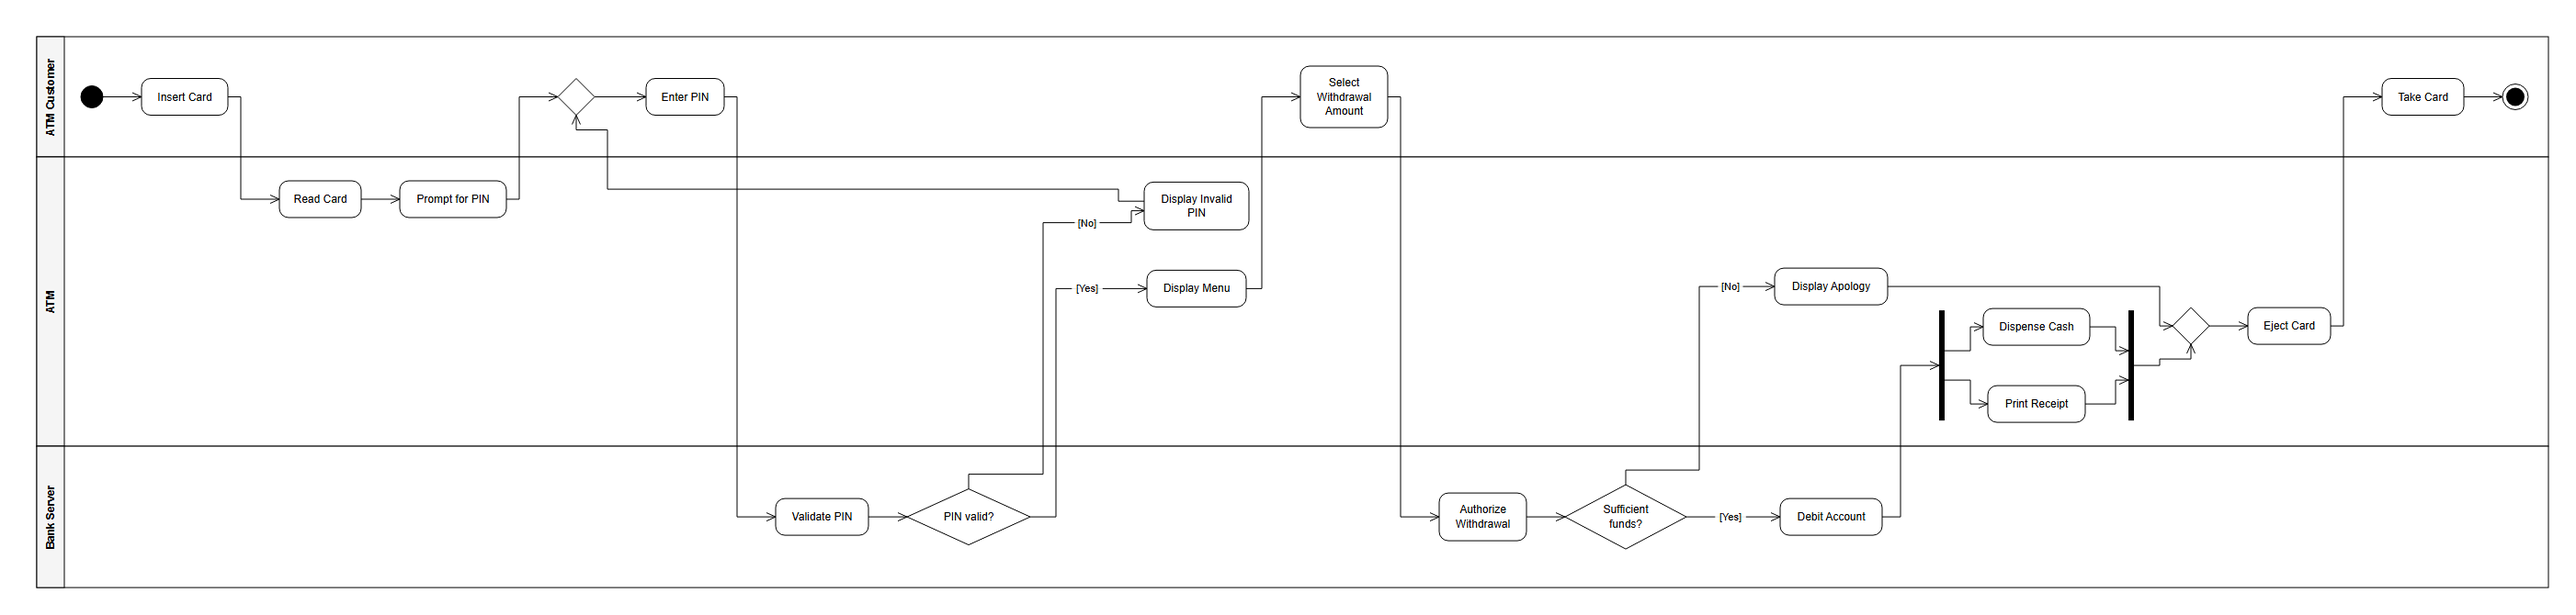
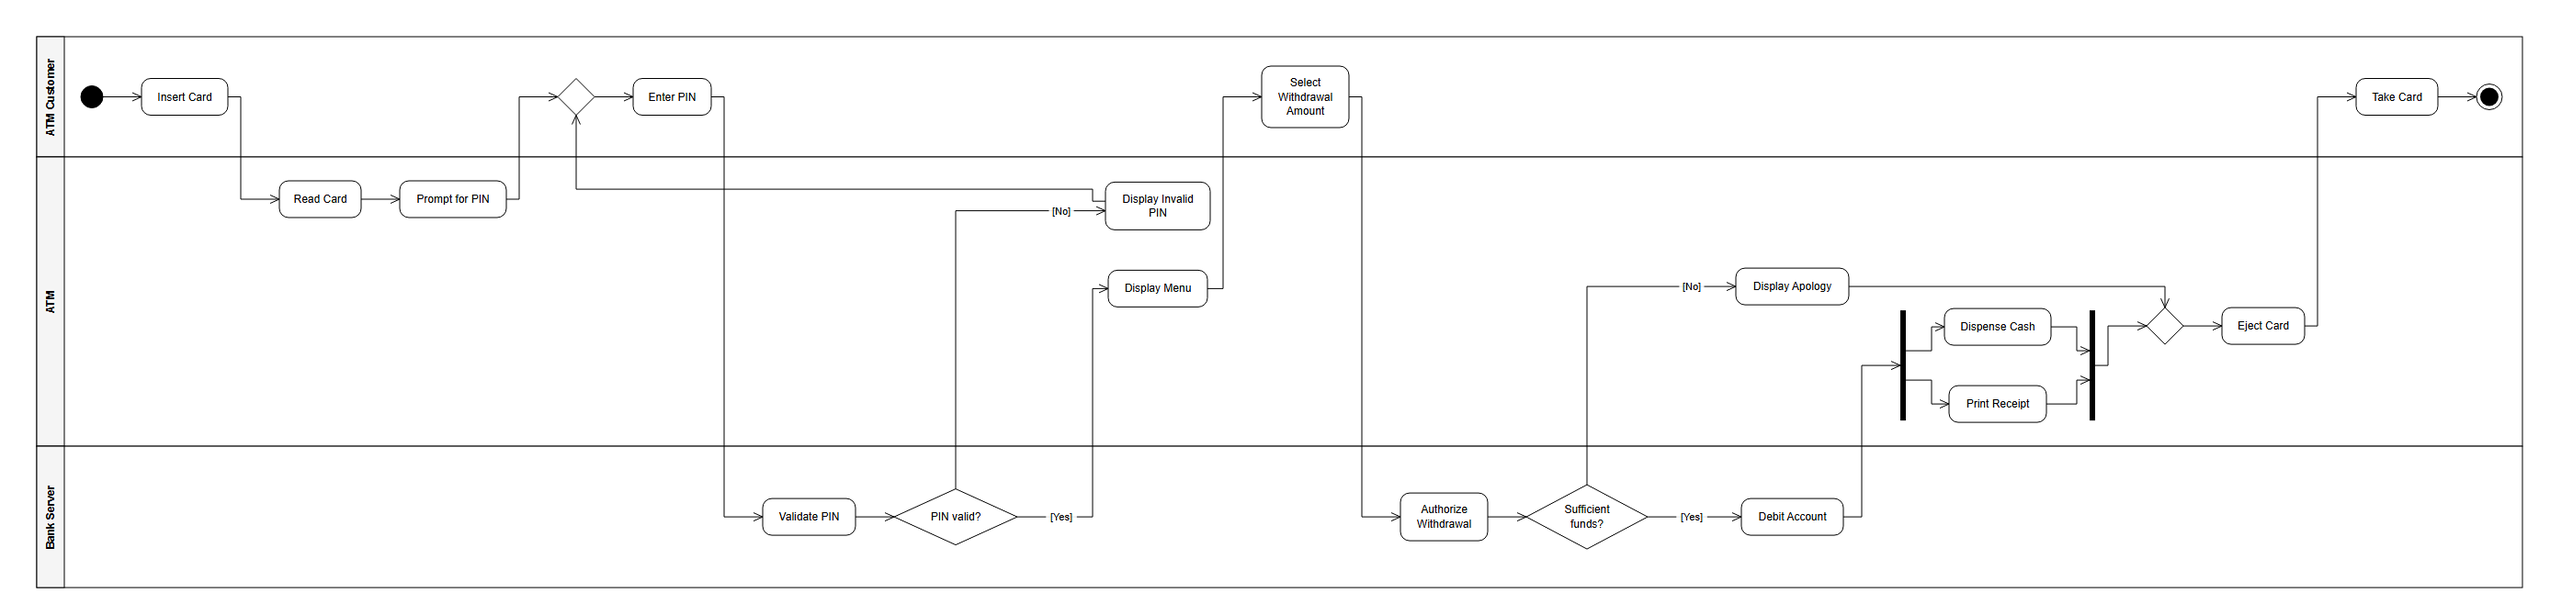
feat(activity): flows enter/leave decision and merge diamonds only at vertices
Activity diagrams now attach every flow at one of the 4 diamond vertices instead
of the slanted edges. On one side, k flows take k slots in order from
[left corner, tip, right corner], so they never cross next to the shape. The tip
goes to the forward flow nearest the axis; back edges use a corner and no longer
pull the diamond off the forward axis. Corner edges and their dummy chains are
aligned into one column (no hooks). Fixed tip ports get track ordering so two
vertical runs never overlap. Diamonds with more than 4 flows (or more than 3 on
one side) keep the previous perimeter spreading.

Only activity layouts change (layout option rhombus_tips); other diagram types
render byte-identical. New regression test checks vertex-only ports on fuzz
specs and the ATM example.

diff --git a/comet-uml-drawio/scripts/layout.py b/comet-uml-drawio/scripts/layout.py
@@ -20,6 +20,7 @@ import heapq
 import re
 import math
 from collections import defaultdict
+from itertools import combinations
 
 CFG = {
     "node_sep": 44,      # khoang cach ngang toi thieu giua 2 hinh cung tang
@@ -40,6 +41,7 @@ CFG = {
                          # nhan) chi can ngan nay thay vi min_gap; khe phia mui ten giu min_gap (activity ngang)
     "fold": None,        # {category: (ti le hang/cot, so cot toi da, so hinh toi da mot tang)}: tang qua dai -> gap
                          # hinh "tu do" sang nhieu tang (use case: nhieu UC cung actor khong don thanh mot cot dai)
+    "rhombus_tips": False,  # hinh thoi chi noi canh tai 4 dinh, khong tren canh xien (activity: decision/merge)
 }
 
 
@@ -411,6 +413,27 @@ def layered_layout(elems, ledges, direction="TB", cat_margin=None, cfg=None, lan
             v.w += 2 * C["side_off"]
             v.sr[0] += C["side_off"]
 
+    def tipped(x):
+        """Hinh thoi chi noi canh tai 4 dinh: moi dinh mot canh -> toi da 4 canh, moi phia <= 3 (dinh tren/duoi
+        + 2 goc). Nhieu hon (hoac co canh tu vong) thi giu cach cu: cong rai tren canh xien."""
+        v = V[x]
+        return (C["rhombus_tips"] and v.perim == "rhombus" and x not in loops
+                and len(v.up) <= 3 and len(v.down) <= 3 and len(v.up) + len(v.down) <= 4)
+
+    # chi noi tai dinh: canh quay lui se ra/vao goc trai/phai -> khong keo hinh thoi lech khoi truc luong thuan
+    nopull = set()
+    if C["rhombus_tips"]:
+        flip_of = defaultdict(set)
+        for e in normal:
+            for a, b in ((e._chain[0], e._chain[1]), (e._chain[-1], e._chain[-2])):
+                flip_of[a, b].add(e._flip)
+        for x in order:
+            v = V[x]
+            if tipped(x) and v.side:
+                for nb in (v.up, v.down):
+                    if any(False in flip_of[x, y] for y in nb):
+                        nopull |= {p for y in nb if flip_of[x, y] == {True} for p in ((x, y), (y, x))}
+
     # ---------------------------------------------------------- x coordinates (PAVA)
     def anchor(x):
         v = V[x]
@@ -463,6 +486,8 @@ def layered_layout(elems, ledges, direction="TB", cat_margin=None, cfg=None, lan
                 nb = v.up + v.down
             if LANES:  # chi can thang hang voi hang xom cung lan (lan khac nam o dai khac)
                 nb = [y for y in nb if V[y].lane == v.lane]
+            if nopull:
+                nb = [y for y in nb if (x, y) not in nopull]
             if nb:
                 d = sum(X[y] + anchor(y) for y in nb) / len(nb) - anchor(x)
                 wt = len(nb) * (3.0 if v.dummy else 1.0)
@@ -619,6 +644,23 @@ def layered_layout(elems, ledges, direction="TB", cat_margin=None, cfg=None, lan
         for x, ss in dct.items():
             ss.sort(key=lambda s: X[getattr(s, other)] + anchor(getattr(s, other)))
             lo, hi = xrange_(x)
+            if tipped(x):
+                # chi noi tai dinh: k canh mot phia (da xep theo dau kia) lay k o theo dung thu tu trong
+                # [goc trai, dinh tren/duoi, goc phai] (bo goc phia kia da dung) -> khong cat nhau sat hinh; luon
+                # dung dinh, con lua chon thi dinh danh cho luong thuan (canh quay lui ra/vao goc) gan truc nhat
+                cx, off = (lo + hi) / 2, C["side_off"]
+
+                def tip_cost(o):
+                    s = ss[o.index(0)]
+                    return s.e._flip, abs(X[getattr(s, other)] + anchor(getattr(s, other)) - cx)
+                slots = [g for g in (-1, 0, 1) if g not in used_side[x]]
+                opts = [o for o in combinations(slots, len(ss)) if 0 in o]
+                for s, g in zip(ss, min(opts, key=tip_cost) if opts else [0] * len(ss)):
+                    if g:
+                        setattr(s, side, g)
+                        used_side[x].add(g)
+                    setattr(s, attr, cx + g * ((hi - lo) / 2 + off))
+                continue
             if V[x].side and len(ss) >= 2:
                 # canh co dau kia gan nhat giu o dinh; canh xa nhat moi ben (neu dau kia nam han ve ben do)
                 # ra/vao goc trai/phai -> khong con 2 mui ten dinh nhau o dinh hinh thoi
@@ -648,6 +690,65 @@ def layered_layout(elems, ledges, direction="TB", cat_margin=None, cfg=None, lan
     assign(outs, "ax", "b")
     assign(ins, "bx", "a")
 
+    # canh ra/vao goc hinh thoi: dua doan doc o goc (chi ra xa hinh) va ca chuoi dummy ve cung mot cot -> canh di
+    # mot mach (vd thang tu cong hinh kia toi ngang goc roi re vao), khong be moc quanh goc.
+    # canh ra/vao dinh tren/duoi: chuoi dummy thang cot voi dinh -> mui ten vao/ra dinh thang, khong khuc gay sat dinh
+    def col_ok(e, x, ends):
+        chain = set(e._chain)
+        for d in e._chain[1:-1]:
+            v, x0 = V[d], X[d]
+            for y in layers[v.rank]:
+                if y in chain:
+                    continue
+                gap_ = 4 if V[y].dummy else C["dummy_sep"]   # hai duong song song chi can khong dinh nhau
+                if min(x0, x) <= X[y] <= max(x0, x) or abs(X[y] - x) < (V[y].w + v.w) / 2 + gap_:
+                    return False
+        for n, px in ends:   # doan ngang tu goc toi cot x (o muc tam hinh) khong cat hinh nao cung tang
+            a, b = min(px, x) - 6, max(px, x) + 6
+            if any(y not in chain and X[y] - V[y].w / 2 < b and a < X[y] + V[y].w / 2 for y in layers[V[n].rank]):
+                return False
+        return True
+
+    # canh noi goc truoc (doi duong quay lui ra ngoai), canh noi dinh sau (dung cho vua giai phong)
+    for e in sorted(normal, key=lambda e: not any(s.aside or s.bside for s in e._segs)):
+        s0, sl = e._segs[0], e._segs[-1]
+        ends = []
+        if tipped(s0.a) and s0.aside:
+            ends.append((s0.a, s0.aside, s0.ax))
+        if tipped(sl.b) and sl.bside:
+            ends.append((sl.b, sl.bside, sl.bx))
+        if not ends:
+            tips = [sl.bx] if tipped(sl.b) and not sl.bside else []
+            if tipped(s0.a) and not s0.aside:
+                tips.append(s0.ax)
+            for x in tips if len(e._chain) > 2 else []:
+                if col_ok(e, x, []):
+                    for d in e._chain[1:-1]:
+                        X[d] = x
+                    break
+            continue
+        if len({g for _, g, _ in ends}) > 1:
+            continue
+        g = ends[0][1]
+        far = max(px * g for _, _, px in ends) * g          # cot ngoai cung trong cac goc
+        cands = [far]
+        cur = {X[d] for d in e._chain[1:-1]}
+        if len(cur) == 1 and (min(cur) - far) * g > 0:     # chuoi dummy da thang cot ngoai goc: giu nguyen
+            cands.insert(0, min(cur))
+        if len(ends) == 1:
+            other = sl.bx if ends[0][0] == s0.a else s0.ax   # cong cua hinh o dau kia
+            if (other - far) * g > 0:
+                cands.insert(0, other)
+        for x in cands:
+            if col_ok(e, x, [(n, xrange_(n)[0] if g < 0 else xrange_(n)[1]) for n, _, _ in ends]):
+                for d in e._chain[1:-1]:
+                    X[d] = x
+                if s0.aside and tipped(s0.a):
+                    s0.ax = x
+                if sl.bside and tipped(sl.b):
+                    sl.bx = x
+                break
+
     def cax(s):
         return X[s.a] if V[s.a].dummy else s.ax
 
@@ -669,6 +770,8 @@ def layered_layout(elems, ledges, direction="TB", cat_margin=None, cfg=None, lan
         return False
 
     def move_b(s, delta, ss=()):
+        if tipped(s.b) and not s.bside:   # cong o dinh hinh thoi: giu nguyen
+            return
         if V[s.b].dummy:
             X[s.b] += delta
         elif s.bside:              # doan doc vao goc: chi day ra xa hinh
@@ -702,6 +805,12 @@ def layered_layout(elems, ledges, direction="TB", cat_margin=None, cfg=None, lan
                     lo, hi = xrange_(s.b)
                     if (s.bside < 0 and ax <= lo - 8) or (s.bside > 0 and ax >= hi + 8):
                         s.bx = ax
+                elif tipped(s.b):
+                    # dinh hinh thoi co dinh -> dich cong ra cua hinh nguon cho thang (neu con trong hinh do)
+                    if not V[s.a].dummy and not s.aside and not tipped(s.a):
+                        alo, ahi = xrange_(s.a)
+                        if alo + 4 <= bx <= ahi - 4 and all(abs(t.ax - bx) >= 5 for t in outs[s.a] if t is not s):
+                            s.ax = bx
                 else:
                     lo, hi = xrange_(s.b)
                     if lo + 4 <= ax <= hi - 4 and not lab_block(s, ax):
@@ -733,9 +842,26 @@ def layered_layout(elems, ledges, direction="TB", cat_margin=None, cfg=None, lan
             s = t[2]
             return (0, -s.ax) if s.bx > s.ax else (1, s.ax)
 
+        seq = sorted(ivs, key=tkey)
+        # cong o dinh hinh thoi khong dich duoc (buoc 2 bo qua) -> doan doc cua canh khac co the trung cot voi no:
+        # canh roi cot do (cong ra) phai re ngang truoc (track tren) canh di vao cot do -> hai doan doc khong chong
+        above = {}
+        for _, _, s in seq:
+            for _, _, t in seq:
+                if t.e is not s.e and abs(t.ax - s.bx) < 5 and (
+                        (tipped(s.b) and not s.bside) or (tipped(t.a) and not t.aside)):
+                    above.setdefault(id(s), []).append(t)
+        if above:
+            for _ in range(len(seq)):
+                pos = {id(t[2]): i for i, t in enumerate(seq)}
+                bad = next(((pos[id(t)], pos[sid]) for sid, ts in above.items() for t in ts
+                            if pos[id(t)] > pos[sid]), None)
+                if bad is None:
+                    break
+                seq.insert(bad[1], seq.pop(bad[0]))
         placed = []
-        for lo, hi, s in sorted(ivs, key=tkey):
-            tr = 0
+        for lo, hi, s in seq:
+            tr = max([t.track + 1 for t in above.get(id(s), []) if t.track is not None] + [0])
             for l2, h2, t2 in placed:
                 if not (h2 + C["track_gap"] <= lo or hi + C["track_gap"] <= l2):
                     tr = max(tr, t2 + 1)

diff --git a/comet-uml-drawio/tests/run_tests.py b/comet-uml-drawio/tests/run_tests.py
@@ -37,6 +37,7 @@ import unittest
 import urllib.parse
 import xml.etree.ElementTree as ET
 import zlib
+from collections import defaultdict
 from pathlib import Path
 from xml.sax.saxutils import quoteattr
 
@@ -323,6 +324,30 @@ class TestFuzz(unittest.TestCase):
                     fx, fy = float(st[pre + "X"]), float(st[pre + "Y"])
                     with self.subTest(spec=sp.get("title"), edge=c.get("id"), end=end):
                         self.assertAlmostEqual(abs(fx - 0.5) + abs(fy - 0.5), 0.5, delta=0.01)
+        self.assertGreater(n, 50)
+
+    def test_activity_rhombus_edges_at_vertices(self):
+        """Activity: decision/merge <= 4 canh (moi phia <= 3) -> moi dau canh o 1 trong 4 dinh, khong 2 canh chung dinh."""
+        specs = [GENERATORS["activity"](s) for s in range(FUZZ_SEEDS)]
+        specs += U.load_specs([str(EXAMPLES / "atm_activity_withdraw.json")])
+        tips = {(0.5, 0.0), (0.5, 1.0), (0.0, 0.5), (1.0, 0.5)}
+        n = 0
+        for sp in specs:
+            cs = cells(gen(sp)[0])
+            ends = defaultdict(list)
+            for c in edges(cs):
+                st = style(c)
+                for end, pre in (("source", "exit"), ("target", "entry")):
+                    v = cs.get(c.get(end))
+                    if v is not None and "rhombus" in (v.get("style") or ""):
+                        ends[v.get("id")].append((round(float(st[pre + "X"]), 3), round(float(st[pre + "Y"]), 3)))
+            for vid, ps in ends.items():
+                if len(ps) > 4:   # qua 4 dinh: van rai tren canh xien (test_rhombus_ports_on_perimeter)
+                    continue
+                n += 1
+                with self.subTest(spec=sp.get("title"), node=vid):
+                    self.assertTrue(set(ps) <= tips, ps)
+                    self.assertEqual(len(set(ps)), len(ps), ps)
         self.assertGreater(n, 50)
 
 

diff --git a/comet-uml-drawio/scripts/uml2drawio.py b/comet-uml-drawio/scripts/uml2drawio.py
@@ -1219,8 +1219,10 @@ def build_graph(spec, warns, origin):
     results = {}
     # cot UC dai hon 6 -> gap thanh nhieu cot (~2.5 hang moi cot, toi da 4 cot) thay vi mot cot dai hep
     level_cfg = {"fold": {1: (2.5, 4, 6)}} if diagram == "usecase" else None
-    if diagram == "activity" and direction == "LR":   # ngang: canh ngan lai de so do khong qua dai
-        level_cfg = {"exit_gap": 14, "min_gap": 28}
+    if diagram == "activity":   # decision/merge: mui ten chi ra/vao tai dinh hinh thoi
+        level_cfg = {"rhombus_tips": True}
+        if direction == "LR":   # ngang: canh ngan lai de so do khong qua dai
+            level_cfg.update({"exit_gap": 14, "min_gap": 28})
 
     def do_level(pid):
         for k in kids.get(pid, []):

diff --git a/comet-uml-drawio/commands/uml-activity/SKILL.md b/comet-uml-drawio/commands/uml-activity/SKILL.md
@@ -40,7 +40,8 @@ bằng ngôn ngữ của họ.
   `decision` (1 vào, ≥ 2 ra), `merge` (≥ 2 vào, 1 ra), `fork` / `join` (song song), `activityFinal` (kết thúc cả
   activity), `flowFinal` (kết thúc một luồng).
 - Action vẽ thành hình chữ nhật bo góc. `decision` ghi **câu hỏi điều kiện** trong hình thoi:
-  `{"type": "decision", "question": "Valid PIN?"}` (hình thoi tự nới cho vừa chữ; `merge` để trống).
+  `{"type": "decision", "question": "Valid PIN?"}` (hình thoi tự nới cho vừa chữ; `merge` để trống). Mũi tên
+  tự ra/vào tại 4 đỉnh hình thoi; giữ decision/merge ≤ 4 luồng (1 vào + ≤ 3 guard) để đủ đỉnh.
 - Luồng `{"type": "flow", "from", "to"}`; luồng ra khỏi `decision` **luôn có** `"guard"` trả lời câu hỏi ("Yes" /
   "No"; tối đa một `"else"`) — A1; luồng thường không có guard.
 - **Action có ≥ 2 luồng vào là sai ngữ nghĩa** (join ngầm: chờ đủ mọi luồng → nhánh rẽ từ decision sẽ kẹt): gộp

diff --git a/comet-uml-drawio/references/uml-notation.md b/comet-uml-drawio/references/uml-notation.md
@@ -101,7 +101,9 @@ thì đặt `"frame": true`.
   decision bị kẹt); **≥ 2 luồng ra** = fork ngầm. Gộp nhánh bằng `merge`, rẽ nhánh bằng `decision`, song song
   bằng `fork`/`join` (A6). Vòng lặp quay về một `merge` đặt trước action cần lặp.
 - Swimlane: mỗi action nằm trong làn của tác nhân/đối tượng thực hiện nó (vd actor, hệ thống, hệ thống ngoài).
-- Hình thoi có nhiều luồng cùng phía: script tự đưa luồng xa nhất ra/vào góc trái/phải.
+- Decision/merge: mũi tên chỉ ra/vào tại **4 đỉnh** hình thoi (không chạm cạnh xiên), mỗi đỉnh một luồng – luồng
+  thuận ở 2 đỉnh theo chiều luồng, luồng thêm cùng phía (vd guard thứ 2, vòng lặp quay lui) ở 2 đỉnh bên. Hình thoi
+  quá 4 luồng (hoặc > 3 luồng một phía) không đủ đỉnh → script rải điểm nối trên cạnh xiên như cũ.
 
 ## Statechart – quy tắc hợp lệ (comet_check S1–S5)
 

diff --git a/comet-uml-drawio/references/spec-format.md b/comet-uml-drawio/references/spec-format.md
@@ -170,6 +170,8 @@ Quan hệ có thể nối phần tử ở các cấp lồng khác nhau (vd compo
   (chờ đủ mọi luồng → nhánh rẽ từ decision bị kẹt), comet_check báo A6. comet_check A1–A6 kiểm tra các luật này.
 - Vòng lặp (luồng quay lui) được phép — quay về một `merge` đặt trước action cần lặp; script tự vẽ vào góc hình
   thoi, không đè luồng khác.
+- Mũi tên ra/vào `decision`/`merge` luôn ở **đỉnh** hình thoi (4 đỉnh, mỗi đỉnh một luồng) – không cần ghi gì
+  trong spec. Hình thoi > 4 luồng không đủ đỉnh → điểm nối rải trên cạnh xiên.
 
 ### Component diagram với provided/required interface
 
